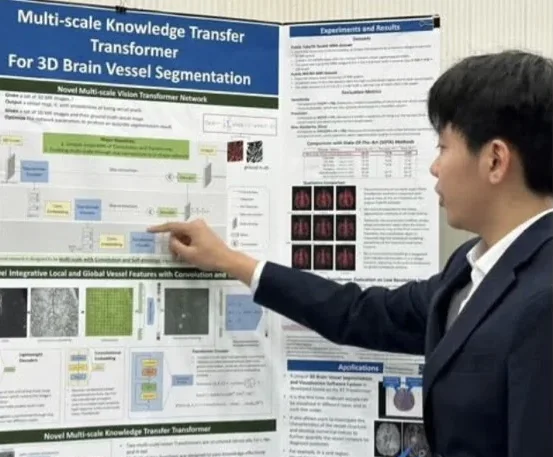
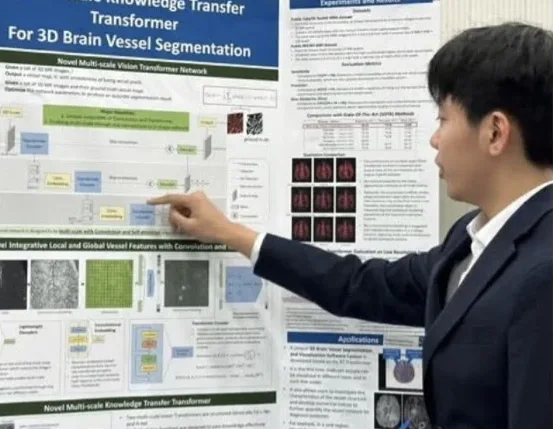
Crop the wall band off the poster photo and cap the Michigan History size
moment-brain-poster still carried the cream wall above the poster. Measured
column by column, the band ran 0-23px deep across the middle of the frame
and up to 61px at the right. Lifting the top edge by 28px clears it across
85% of the width: the wall now measures 0 everywhere except the last 60px,
where a small wedge sits above his head. Removing that too would mean
cutting into the poster title, so it stays. 553x457 -> 553x429.

moment-history-award is a 420px phone photo and was filling a 205px column,
which is only 1.02x on a 2x screen and short of a 3x one. Add an optional
displayMax to GalleryPhoto and set it to 156px for this one photo, with
`sizes` following it so the browser picks accordingly. It now renders in a
154px box at 2.73x. Every photo in the gallery is now at least 2.4x its
rendered box.

diff --git a/src/data/photos.ts b/src/data/photos.ts
@@ -6,6 +6,9 @@ export interface GalleryPhoto {
   width: number;
   height: number;
   sources?: ResponsiveImageSource[];
+  /** Cap the rendered width, in px, for a photo whose source is too small to
+      fill a full column sharply. Only set it where the pixels demand it. */
+  displayMax?: number;
 }
 
 const gallerySources = (name: string, fullWidth: number): ResponsiveImageSource[] => {
@@ -63,7 +66,7 @@ export const momentsPhotos: GalleryPhoto[] = [
     src: "gallery/moment-brain-poster.webp",
     sources: gallerySources("moment-brain-poster", 553),
     width: 553,
-    height: 457,
+    height: 429,
     alt: "Michael Hua presenting his brain vessel segmentation research poster",
   },
   {
@@ -71,6 +74,8 @@ export const momentsPhotos: GalleryPhoto[] = [
     sources: gallerySources("moment-history-award", 420),
     width: 420,
     height: 465,
+    // 420px of real detail: shown smaller so it stays crisp on a 3x phone.
+    displayMax: 156,
     alt: "Michael Hua holding his Michigan History Day National Finalist award",
   },
   {

diff --git a/src/components/HomeGallery.tsx b/src/components/HomeGallery.tsx
@@ -12,11 +12,14 @@ export default function HomeGallery() {
           {homeGalleryItems.map((photo) => {
             return (
               <li key={photo.src} className="home-gallery__item">
-                <figure className="home-gallery__photo">
+                <figure
+                  className="home-gallery__photo"
+                  style={photo.displayMax ? { maxWidth: `${photo.displayMax}px` } : undefined}
+                >
                   <img
                     src={imageUrl(photo.src)}
                     srcSet={imageSrcSet(photo.sources)}
-                    sizes="(max-width: 620px) 42vw, 204px"
+                    sizes={photo.displayMax ? `${photo.displayMax}px` : "(max-width: 620px) 42vw, 204px"}
                     alt={photo.alt}
                     width={photo.width}
                     height={photo.height}
